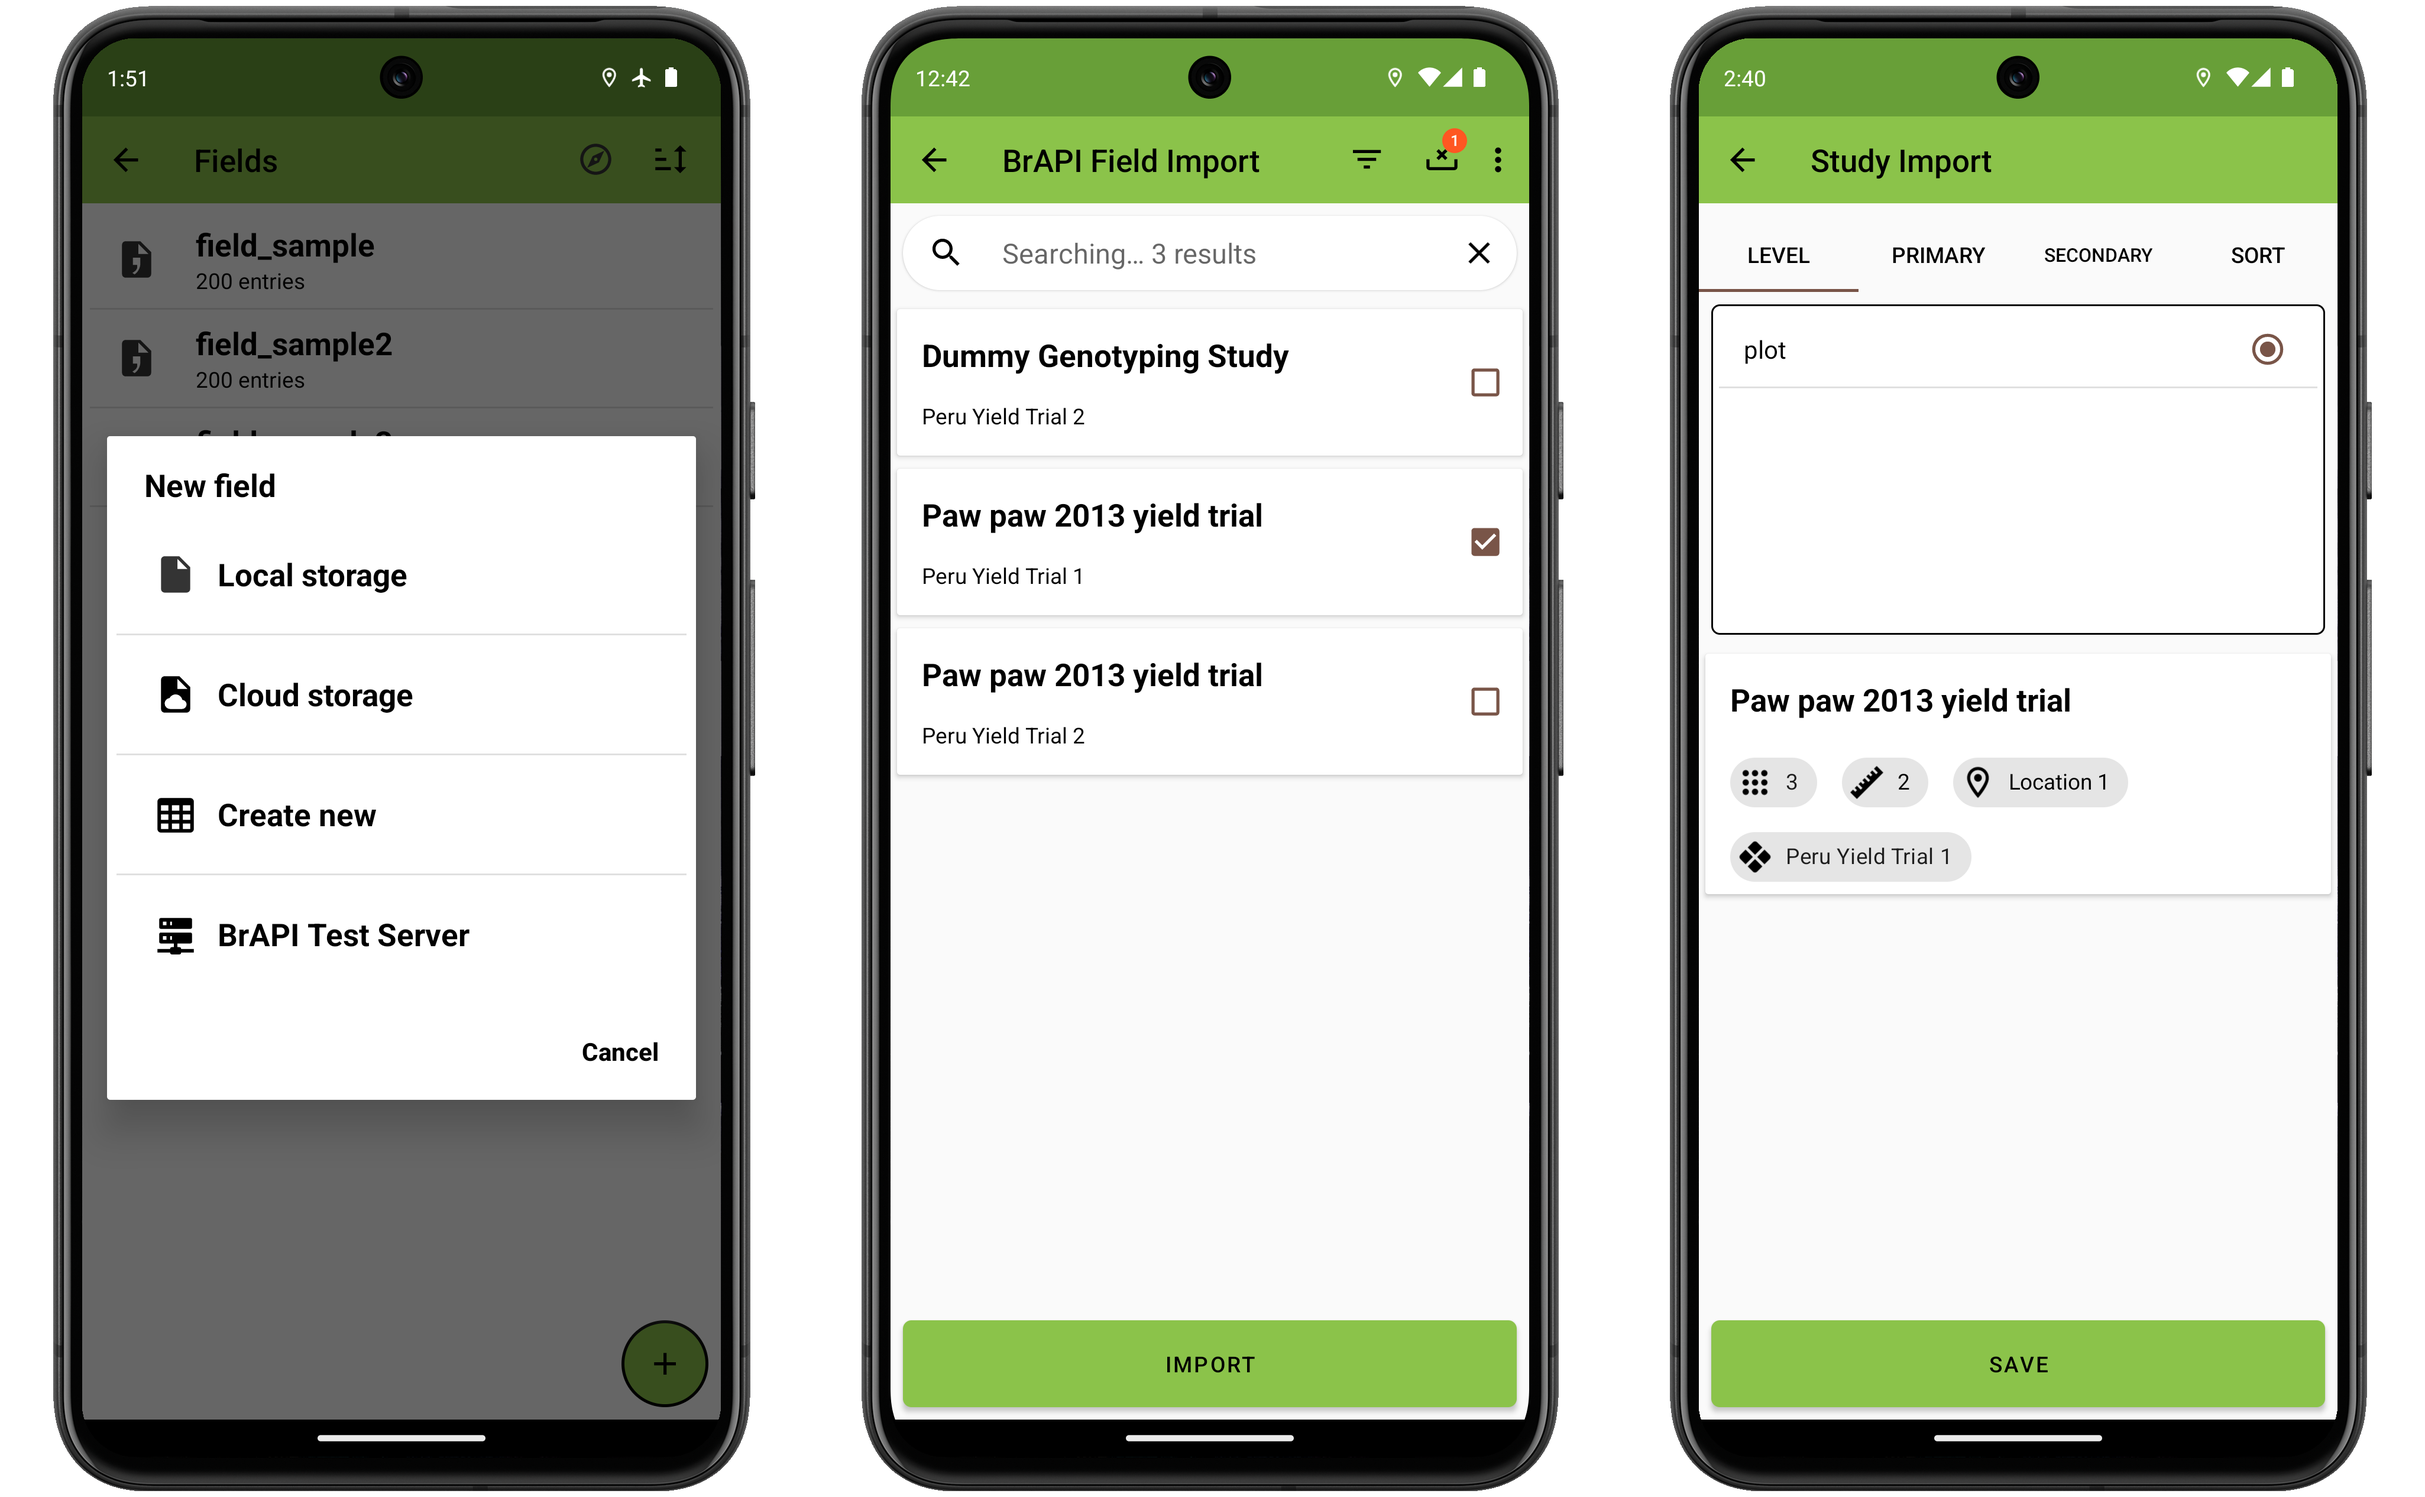
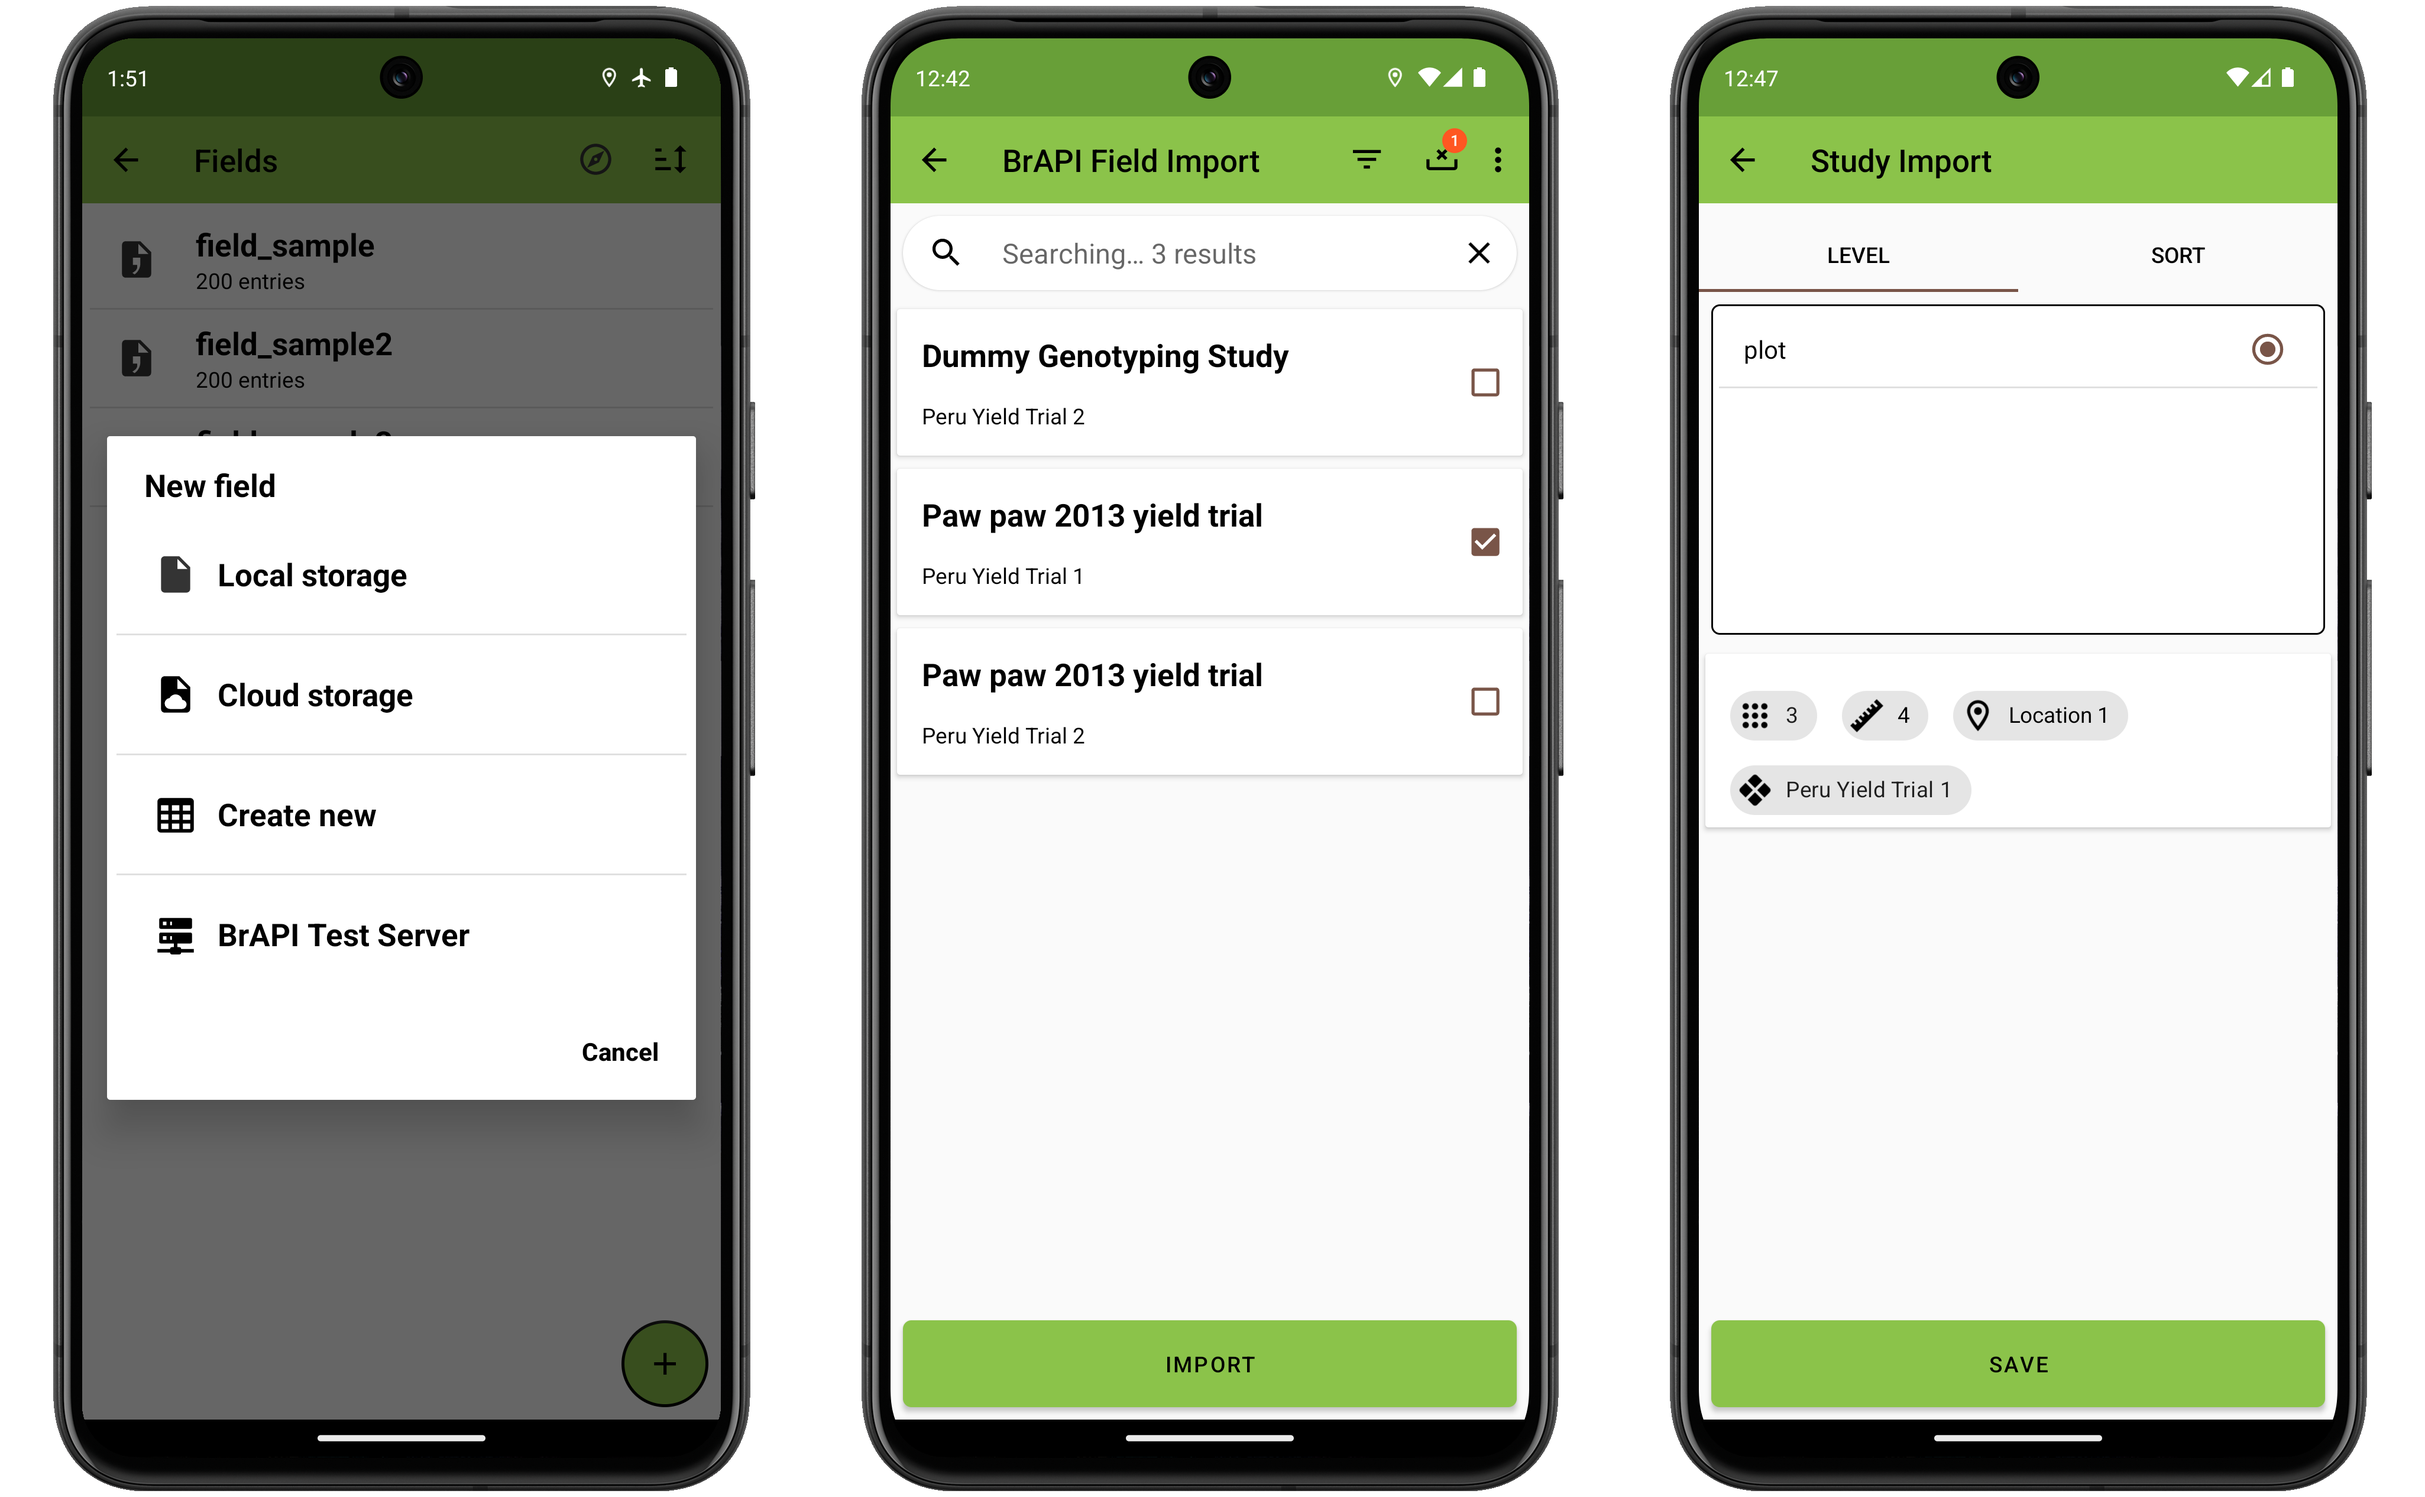
update brapi field import details

Changed region(s): [[0.7179, 0.4366, 0.8739, 0.5926], [0.8427, 0.1559, 0.9364, 0.1871], [0.7179, 0.1559, 0.8115, 0.1871]]

diff --git a/docs/settings.md b/docs/settings.md
@@ -37,7 +37,7 @@ First, press the <img class="icon" src="_static/icons/settings/swap-horizontal-c
   <figcaption class="screenshot-caption"><i>Initial steps to share settings with nearby share</i></figcaption> 
 </figure>
 
-Follow the same steps on the other device you are importing from/exporting to. The importing device will then display a list of devices it sees nearby that are trying to share data. Select the desired device, confirm the pairing codes match between the device and accept the connection on both devices. Once accepted the transfer will occur and indicate it is finished with a "Transfer completed" message. 
+Follow the same steps on the other device you are importing from/exporting to. The importing device will then display a list of devices it sees nearby that are trying to share data. Select the desired device, confirm the pairing codes match, and accept the connection on both devices. Once accepted the transfer will occur and indicate it is finished with a "Transfer completed" message. 
 
 <figure class="image">
   <img class="screenshot" src="_static/images/settings/settings_share_joined_2.png" width="1100px"> 

diff --git a/docs/brapi.md b/docs/brapi.md
@@ -42,7 +42,7 @@ If your field was recently created in your database, you may need to reset the c
 Press the import button on the bottom of the screen to download the fields to Field Book.
 
 The final screen shows additional details for each selected field, including the number of entries, number of associated traits, location, and season.
-The tabs at the top can be used to change the observation level, primary ID, secondary ID, and sort order for the selected fields.
+The tabs at the top can be used to change the observation level and sort order for the selected fields.
 
 Press the Save button at the bottom of the screen to import the fields into Field Book.
 The fields and any linked traits will be saved for use in Field Book.
